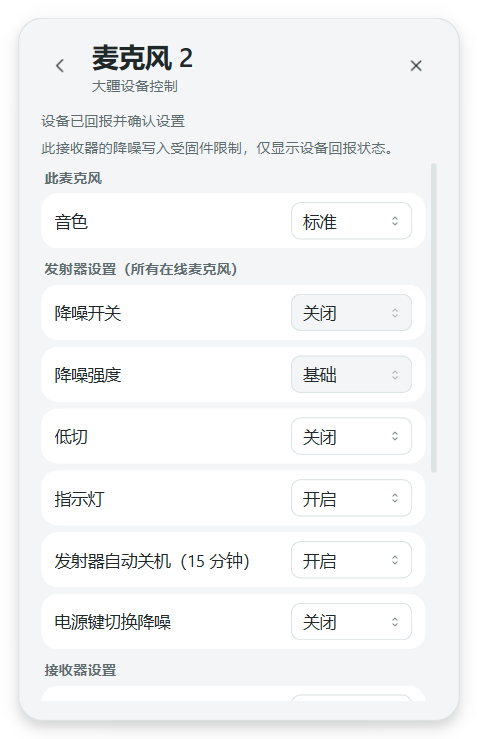
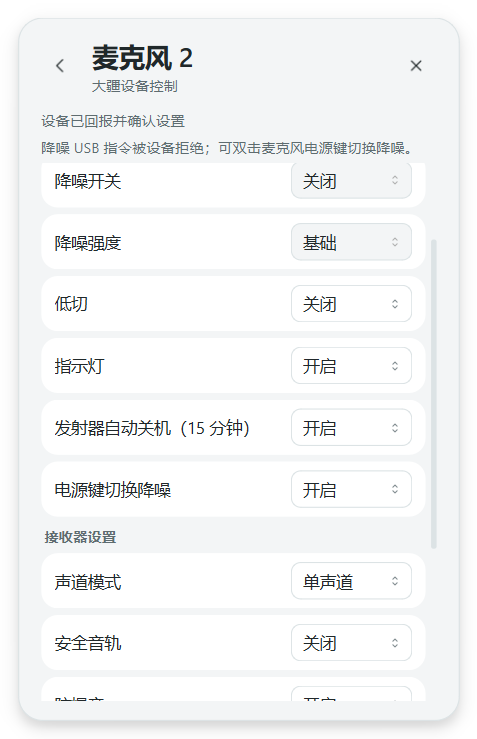
Fix DJI settings scrolling and redundant heartbeat repaints

diff --git a/ui.py b/ui.py
@@ -22,7 +22,7 @@ import asus_control
 from core import (AlertPolicy, MODELS, ALL_MODELS, DJI_MODELS, Reading, atomic_json, load_config,
                    read_all, read_poll_file, user_data_dir)
 from icons import ROOT, app_icon, symbol
-from i18n import LANGUAGES, set_language, tr, translate_message
+from i18n import LANGUAGES, current_language, set_language, tr, translate_message
 from polling import RetrySchedule
 
 
@@ -52,7 +52,9 @@ class TranslatedLabel(QLabel):
 
     def setText(self, text):
         self.source_text = text
-        super().setText(translate_message(text))
+        translated = translate_message(text)
+        if self.text() != translated:
+            super().setText(translated)
 
     def retranslate(self):
         super().setText(translate_message(self.source_text))
@@ -232,6 +234,13 @@ class DeviceCard(QFrame):
 
     def render(self, reading, config, stale=False):
         self.reading = reading
+        signature = (reading.title, reading.level, reading.charging, reading.approximate,
+            reading.error, reading.battery_kind, reading.gauge, reading.state, reading.detail,
+            stale, tuple(self.colors.items()), current_language(),
+            repr(config.get("alerts", {}).get(self.key)))
+        if getattr(self, "_render_signature", None) == signature:
+            return
+        self._render_signature = signature
         self.title.setText(reading.title)
         c = self.colors
         self.glyph.setPixmap(symbol("microphone" if self.key in DJI_MODELS else self.key, c["text"], 29).pixmap(QSize(29, 29)))
@@ -355,7 +364,7 @@ class DjiDetails(QWidget):
         self.status_label = label("等待设备回报", "caption")
         self.status_label.setWordWrap(True)
         outer.addWidget(self.status_label)
-        self.capability_note = label("此接收器的降噪写入受固件限制，仅显示设备回报状态。", "caption")
+        self.capability_note = label("降噪 USB 指令被设备拒绝；可双击麦克风电源键切换降噪。", "caption")
         self.capability_note.setWordWrap(True); self.capability_note.hide()
         outer.addWidget(self.capability_note)
         scroll = QScrollArea(); scroll.setWidgetResizable(True)
@@ -373,6 +382,10 @@ class DjiDetails(QWidget):
                 text = label(desc.label); text.setWordWrap(True)
                 row.addWidget(text, 1)
                 choice = MenuChoice()
+                # Disabling a focused QPushButton transfers focus to the next
+                # enabled row. Repeating that for every row scrolls to the end.
+                # Tab traversal is already deliberately disabled in this app.
+                choice.setFocusPolicy(Qt.FocusPolicy.NoFocus)
                 choice.setMinimumSize(110, 34); choice.setMaximumWidth(135)
                 choice.addItem("未知／不支持", None)
                 for value, caption, _ in desc.options:
@@ -784,7 +797,11 @@ class Panel(QWidget):
         self.devices_scroll.setMinimumHeight(min(self.devices_layout.sizeHint().height(), max(180, room.height() - 240)))
         height = (min(self.main_page.layout().sizeHint().height(), room.height() - 150) if self.stack.currentWidget() == self.main_page
                   else min(535, room.height() - 150))
-        self.stack.setFixedHeight(max(180, height))
+        target_height = max(180, height)
+        if self.stack.height() == target_height and getattr(self, "_sized_page", None) is self.stack.currentWidget():
+            return
+        self._sized_page = self.stack.currentWidget()
+        self.stack.setFixedHeight(target_height)
         self.shell.layout().activate()
         self.layout().activate()
         self.setFixedHeight(self.layout().sizeHint().height())
@@ -1026,7 +1043,9 @@ class Controller(QObject):
                                         if self.last_updated else "尚未读取到电量")
         self.panel.notice.setText(error or ("提醒已暂停 30 分钟" if time.time() < self.policy.snoozed_until else ""))
         self.panel.notice.setVisible(bool(self.panel.notice.text()))
-        self.panel.resize_to_content()
+        # Device pushes do not change the fixed-height details/settings pages.
+        if self.panel.stack.currentWidget() is self.panel.main_page:
+            self.panel.resize_to_content()
         tooltip = [tr("电量岛 · ChargeDock")]
         low = False
         for r in self.readings.values():
@@ -1043,7 +1062,10 @@ class Controller(QObject):
                 item = self.config["alerts"][r.key]
                 low |= item["enabled"] and r.level <= item["threshold"] and not r.charging
         self.tray.setToolTip("\n".join(tooltip))
-        self.tray.setIcon(symbol("tray", self.panel.colors["warning"] if low else self.panel.colors["accent"], 32))
+        tray_color = self.panel.colors["warning"] if low else self.panel.colors["accent"]
+        if getattr(self, "_tray_color", None) != tray_color:
+            self.tray.setIcon(symbol("tray", tray_color, 32))
+            self._tray_color = tray_color
 
     def save(self):
         try:

diff --git a/test_ui.py b/test_ui.py
@@ -9,7 +9,7 @@ import uuid
 from pathlib import Path
 from types import SimpleNamespace
 
-from PySide6.QtCore import QPoint, Qt, QTimer
+from PySide6.QtCore import QCoreApplication, QEvent, QPoint, Qt, QTimer
 from PySide6.QtNetwork import QLocalServer
 from PySide6.QtTest import QTest
 from PySide6.QtWidgets import QApplication, QSystemTrayIcon
@@ -41,6 +41,9 @@ class UiTests(unittest.TestCase):
     def dispose(self):
         self.controller.cleanup()
         self.panel.deleteLater()
+        self.controller.deleteLater()
+        self.server.deleteLater()
+        QCoreApplication.sendPostedEvents(None, QEvent.Type.DeferredDelete)
         self.app.processEvents()
 
     def dji_fixture(self):
@@ -75,6 +78,58 @@ class UiTests(unittest.TestCase):
         choice.setCurrentIndex(choice.findData('rich'))
         client.submit.assert_called_once_with('voice-tone','rich',2,False)
         self.assertEqual(choice.currentData(),'standard')
+
+    def test_dji_pending_confirmation_preserves_scroll_position(self):
+        from PySide6.QtWidgets import QScrollArea
+        client=self.dji_fixture()
+        self.panel.show_dji(2); self.panel.show(); self.panel.activateWindow(); self.app.processEvents()
+        page=self.panel.dji_page
+        scroll=page.findChild(QScrollArea)
+        choice=page.controls['voice-tone']
+        QTest.mouseClick(choice,Qt.MouseButton.LeftButton)
+        choice.choice_menu.hide(); self.app.processEvents()
+        bar=scroll.verticalScrollBar(); bar.setValue(0)
+        self.assertGreater(bar.maximum(),0)
+        client.pending_id='pending'
+        page.refresh(); self.app.processEvents()
+        self.assertEqual(bar.value(),0)
+        client.pending_id=None
+        page.refresh(); self.app.processEvents()
+        self.assertEqual(bar.value(),0)
+
+    def test_unchanged_dji_push_does_not_reset_tray_or_resize_details(self):
+        client=self.dji_fixture()
+        self.panel.show_dji(2); self.panel.show(); self.app.processEvents()
+        self.controller.update_presentation()
+        with patch.object(self.controller.tray,'setIcon') as icon, \
+                patch.object(self.panel,'resize_to_content') as resize:
+            self.controller.receive_dji(list(self.controller.readings.values())[3:],client.state)
+        icon.assert_not_called()
+        resize.assert_not_called()
+
+    def test_dji_heartbeat_is_not_a_visual_change_but_setting_changes_are(self):
+        import time
+        from PySide6.QtCore import QProcess
+        from dji_client import DjiClient
+        from core import atomic_json
+        fixture=self.dji_fixture()
+        client=DjiClient(Path(self.folder.name))
+        received=[]; client.updated.connect(lambda values,state:received.append(state))
+        client.started=time.time()-1
+        raw=json.loads(json.dumps(fixture.state))
+        try:
+            with patch.object(client.process,'state',return_value=QProcess.ProcessState.Running):
+                atomic_json(client.folder/'state.json',raw); client.tick()
+                raw['heartbeat']=time.time()
+                for reading in raw['readings']: reading['updated']+=1
+                atomic_json(client.folder/'state.json',raw); client.tick()
+                self.assertEqual(len(received),1)
+                self.assertEqual(client.state['heartbeat'],raw['heartbeat'])
+                raw['tx']['2']['tone']='rich'
+                atomic_json(client.folder/'state.json',raw); client.tick()
+                self.assertEqual(len(received),2)
+        finally:
+            client.stop()
 
     def test_dji_stale_and_rejected_controls_disabled(self):
         client=self.dji_fixture()

diff --git a/dji_client.py b/dji_client.py
@@ -29,11 +29,13 @@ class DjiClient(QObject):
         self.state = {}
         self.pending_id = None
         self.last_lease = 0
+        self.last_presentation = None
 
     def start(self):
         # Never replay a command after a crash or restart.
         (self.folder / "command.json").unlink(missing_ok=True)
         self.pending_id = None
+        self.last_presentation = None
         (self.folder / "lease").touch()
         args = ["--dji-worker", "--data-dir", str(self.folder)]
         if not getattr(sys, "frozen", False):
@@ -80,7 +82,13 @@ class DjiClient(QObject):
                 result = state.get("command_result") or {}
                 if result.get("id") == self.pending_id and result.get("code") not in ("pending", "rebooting"):
                     self.pending_id = None
-                self.updated.emit(values, state)
+                visible = {k: v for k, v in state.items() if k not in ("heartbeat", "readings", "rejected")}
+                visible["readings"] = [{k: v for k, v in item.items() if k != "updated"}
+                                       for item in state["readings"]]
+                signature = json.dumps(visible, ensure_ascii=False, sort_keys=True)
+                if signature != self.last_presentation:
+                    self.last_presentation = signature
+                    self.updated.emit(values, state)
         except (OSError, ValueError, TypeError, KeyError):
             pass
         if now - self.last_heartbeat > 6:
